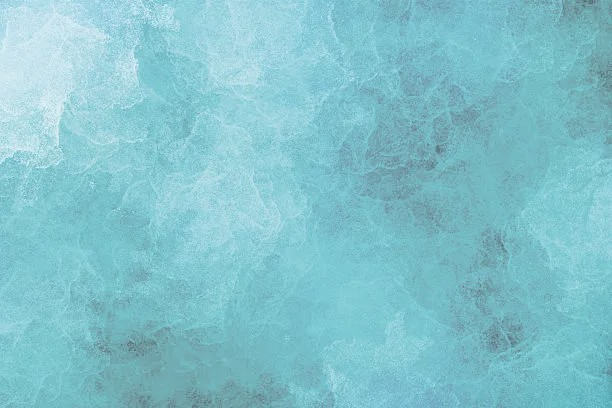
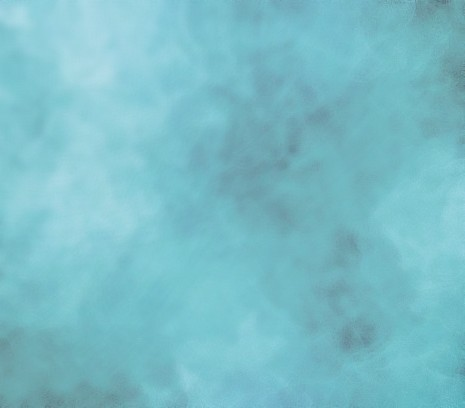
remove background nonsense

diff --git a/Frontend/index.html b/Frontend/index.html
@@ -97,13 +97,6 @@
         padding: 8px;
         box-sizing: border-box;
     }
-
-    .blur-background {
-        filter: blur(5px); /* Adjust the value for more/less blur */
-        background-image: url('Assets/backgroundAsset.jpg); background-size: cover;
-        background-position: center;
-        background-size: 1224px 816px; /* Adjust size to control tiling */
-    }
 </style>
 
 </html>
